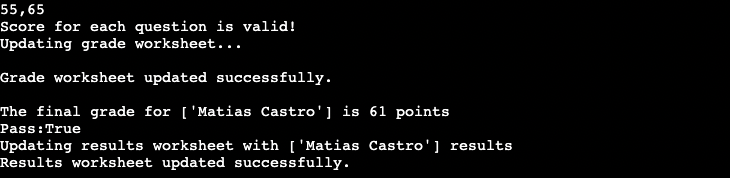
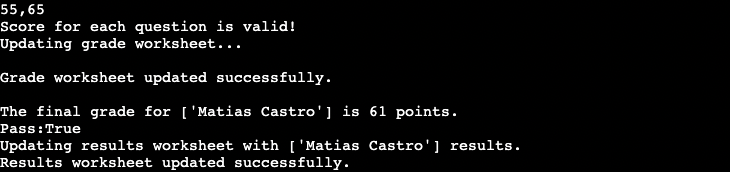
debugging grammar

diff --git a/run.py b/run.py
@@ -72,7 +72,7 @@ def validate_data(data_students_questions):
         quantity_data_int = [int(x) for x in data_students_questions]
         if len(quantity_data_int) != 2:
             raise ValueError(
-                "Exactly 2 values required, you provided"
+                "Exactly 2 values required, you provided: "
                 f"{len(quantity_data_int)}\n"
             )
         elif any(x < 1 for x in quantity_data_int):

diff --git a/README.md b/README.md
@@ -111,12 +111,30 @@ Responsive on all device sizes and has interactive elements.
     - Let the user know that the data is being updated in the results worksheet.
     - Let the user know that the data was succsesfully updated to worksheet.
 
-
 ![Fourth Output: Valid score per question, final grade, and pass result... Information saved to worksheets](/assets/readme-images/fourth_output.png)
-![grade worksheet updated](/assets/readme-images/grade_updated_2.png)
-![results worksheet updated](/assets/readme-images/results_updated.png)
+![grade worksheet updated](/assets/readme-images/grade_updated_3.png)
+![results worksheet updated](/assets/readme-images/results_updated_2.png)
+- Loop Input
 
+    - After grade and exam result for student one, the program will continue asking for all the students names and the scores they got in each one of the questions from the exam.
 
+- Loop Output
+
+    - As the program give the output of the final grade and pass result to the first student, will continue to give the final grade and pass result for each student.
+    - Final grade rounded with round() function.
+
+![Loop Input Output: repeat process of input and output for every student.](/assets/readme-images/loop.png)
+![Final grade worksheet updated](/assets/readme-images/final_grade.png)
+![Final results worksheet updated](/assets/readme-images/final_results.png)
+
+- Runnning the program again
+
+    - If the user decides to run the program again. At the start of it, the program will clear all the worksheets and add specific titles for each one of them.
+
+![Cleaned quantity worksheet](/assets/readme-images/quantity_initial.png)
+![Cleaned grade worksheet](/assets/readme-images/grade_initial.png)
+![Cleaned ponderation worksheet](/assets/readme-images/ponderation_initial.png)
+![Cleaned results worksheet](/assets/readme-images/results_initial.png)
 
 ## Features Left to Implement
 
@@ -129,27 +147,26 @@ Responsive on all device sizes and has interactive elements.
 
 ### User stories as first time visitor goals
 
-- As a First Time Visitor, I want to easily understand the main purpose of the site and learn more about the Artist.
-- As a First Time Visitor, I want to be able to navigate throughout the site in an easy way and be able to understand the content.
-- As a First Time Visitor, I want to look for testimonials from the Artist to learn more about him and the intentions with the webpage. I also want to locate their social media links to see their followings on social media to determine how trusted and known they are.
+- As a First Time Visitor, I want to easily understand the main purpose of the program.
+- As a First Time Visitor, I want to be able to navigate throughout the program in an easy way and be able to understand the content.
+- As a First Time Visitor, I want to be able of getting information back from the program.
 
 ### Testing User Stories from User Experience (UX) Section
 
-- As a First Time Visitor, I want to easily understand the main purpose of the site and learn more about the Artist.
+- As a First Time Visitor, I want to easily understand the main purpose of the program.
 
-    - Users are greeted with an image of the Artist plus a phrase from him.
-    - Thanks to the Bio and Media sections the user can learn more from the life of the Artist and also listen/watch some of his work as a DJ. Both of this helps to understand the value of the Artist and his intentions with the webpage.
-    - Thanks to the contact form and the footer the users are able to either get to know more about the Artist or contact him directly.
+    - Users are greeted with a welcome message.
+    - Users can have fast access to the instructions and purpous of the program.
+    - Users are given example of what the program does.
 
-- As a First Time Visitor, I want to be able to navigate throughout the site in an easy way and be able to understand the content.
+- As a First Time Visitor, I want to be able to navigate throughout the program in an easy way and be able to understand the content.
 
-    - The header and the footer will give company to the users while they navigate the whole site, giving them easy access to it and also to get to know more about the Artist or directly contact him.
-    - The content itself of the site is self-explanatory, user-friendly.
+    - The program is giving information and explaining what it expects as input from the user through the whole proccess.
+    - The program is giving feedback continuesly through the program via Output for the user to understand what is happening and what comes next.
 
-- As a First Time Visitor, I want to look for testimonials from the Artist to learn more about him and the intentions with the webpage. I also want to locate their social media links to see their followings on social media to determine how trusted and known they are.
+- As a First Time Visitor, I want to be able of getting information back from the program.
 
-    - The Bio gives initial information about the artist.
-    - The site gives the opportunity to get to know the artist and the followers thanks to direct links to his social-media accounts.
+    - The program after every input from the user gives and output with preciss information for the user to keep a clear understand of what is happening.
 
 ## Testing
 
@@ -158,14 +175,13 @@ Responsive on all device sizes and has interactive elements.
     - No errors were returned when passing through the official pep8online.com validator.
 
 ![PEP8 Validator](/assets/readme-images/pep8online.png)
-- CSS
+- Correct input
 
-    - No errors were returned when passing through the official W3C validator.
+    - In the Existing Features section, was shown how the program works and what to expect with correct input. Tested and every feature works properly. For terms of space this process will not be repeated since was already done.
 
-![CSS Validator](/assets/readme-images/css_validator.png)
-- Web Developer Tool -  Lighthouse 
+- Incorrect Input 
 
-    - 94% Accessibility.
+    - Input for quantity of students and questions: letters, more or less than 2 inputs,  less than 1 student or 1 questions including negatives.  
 
 ![Accessibility Lighthouse](/assets/readme-images/lighthouse.png)
 ### Different View by Device
